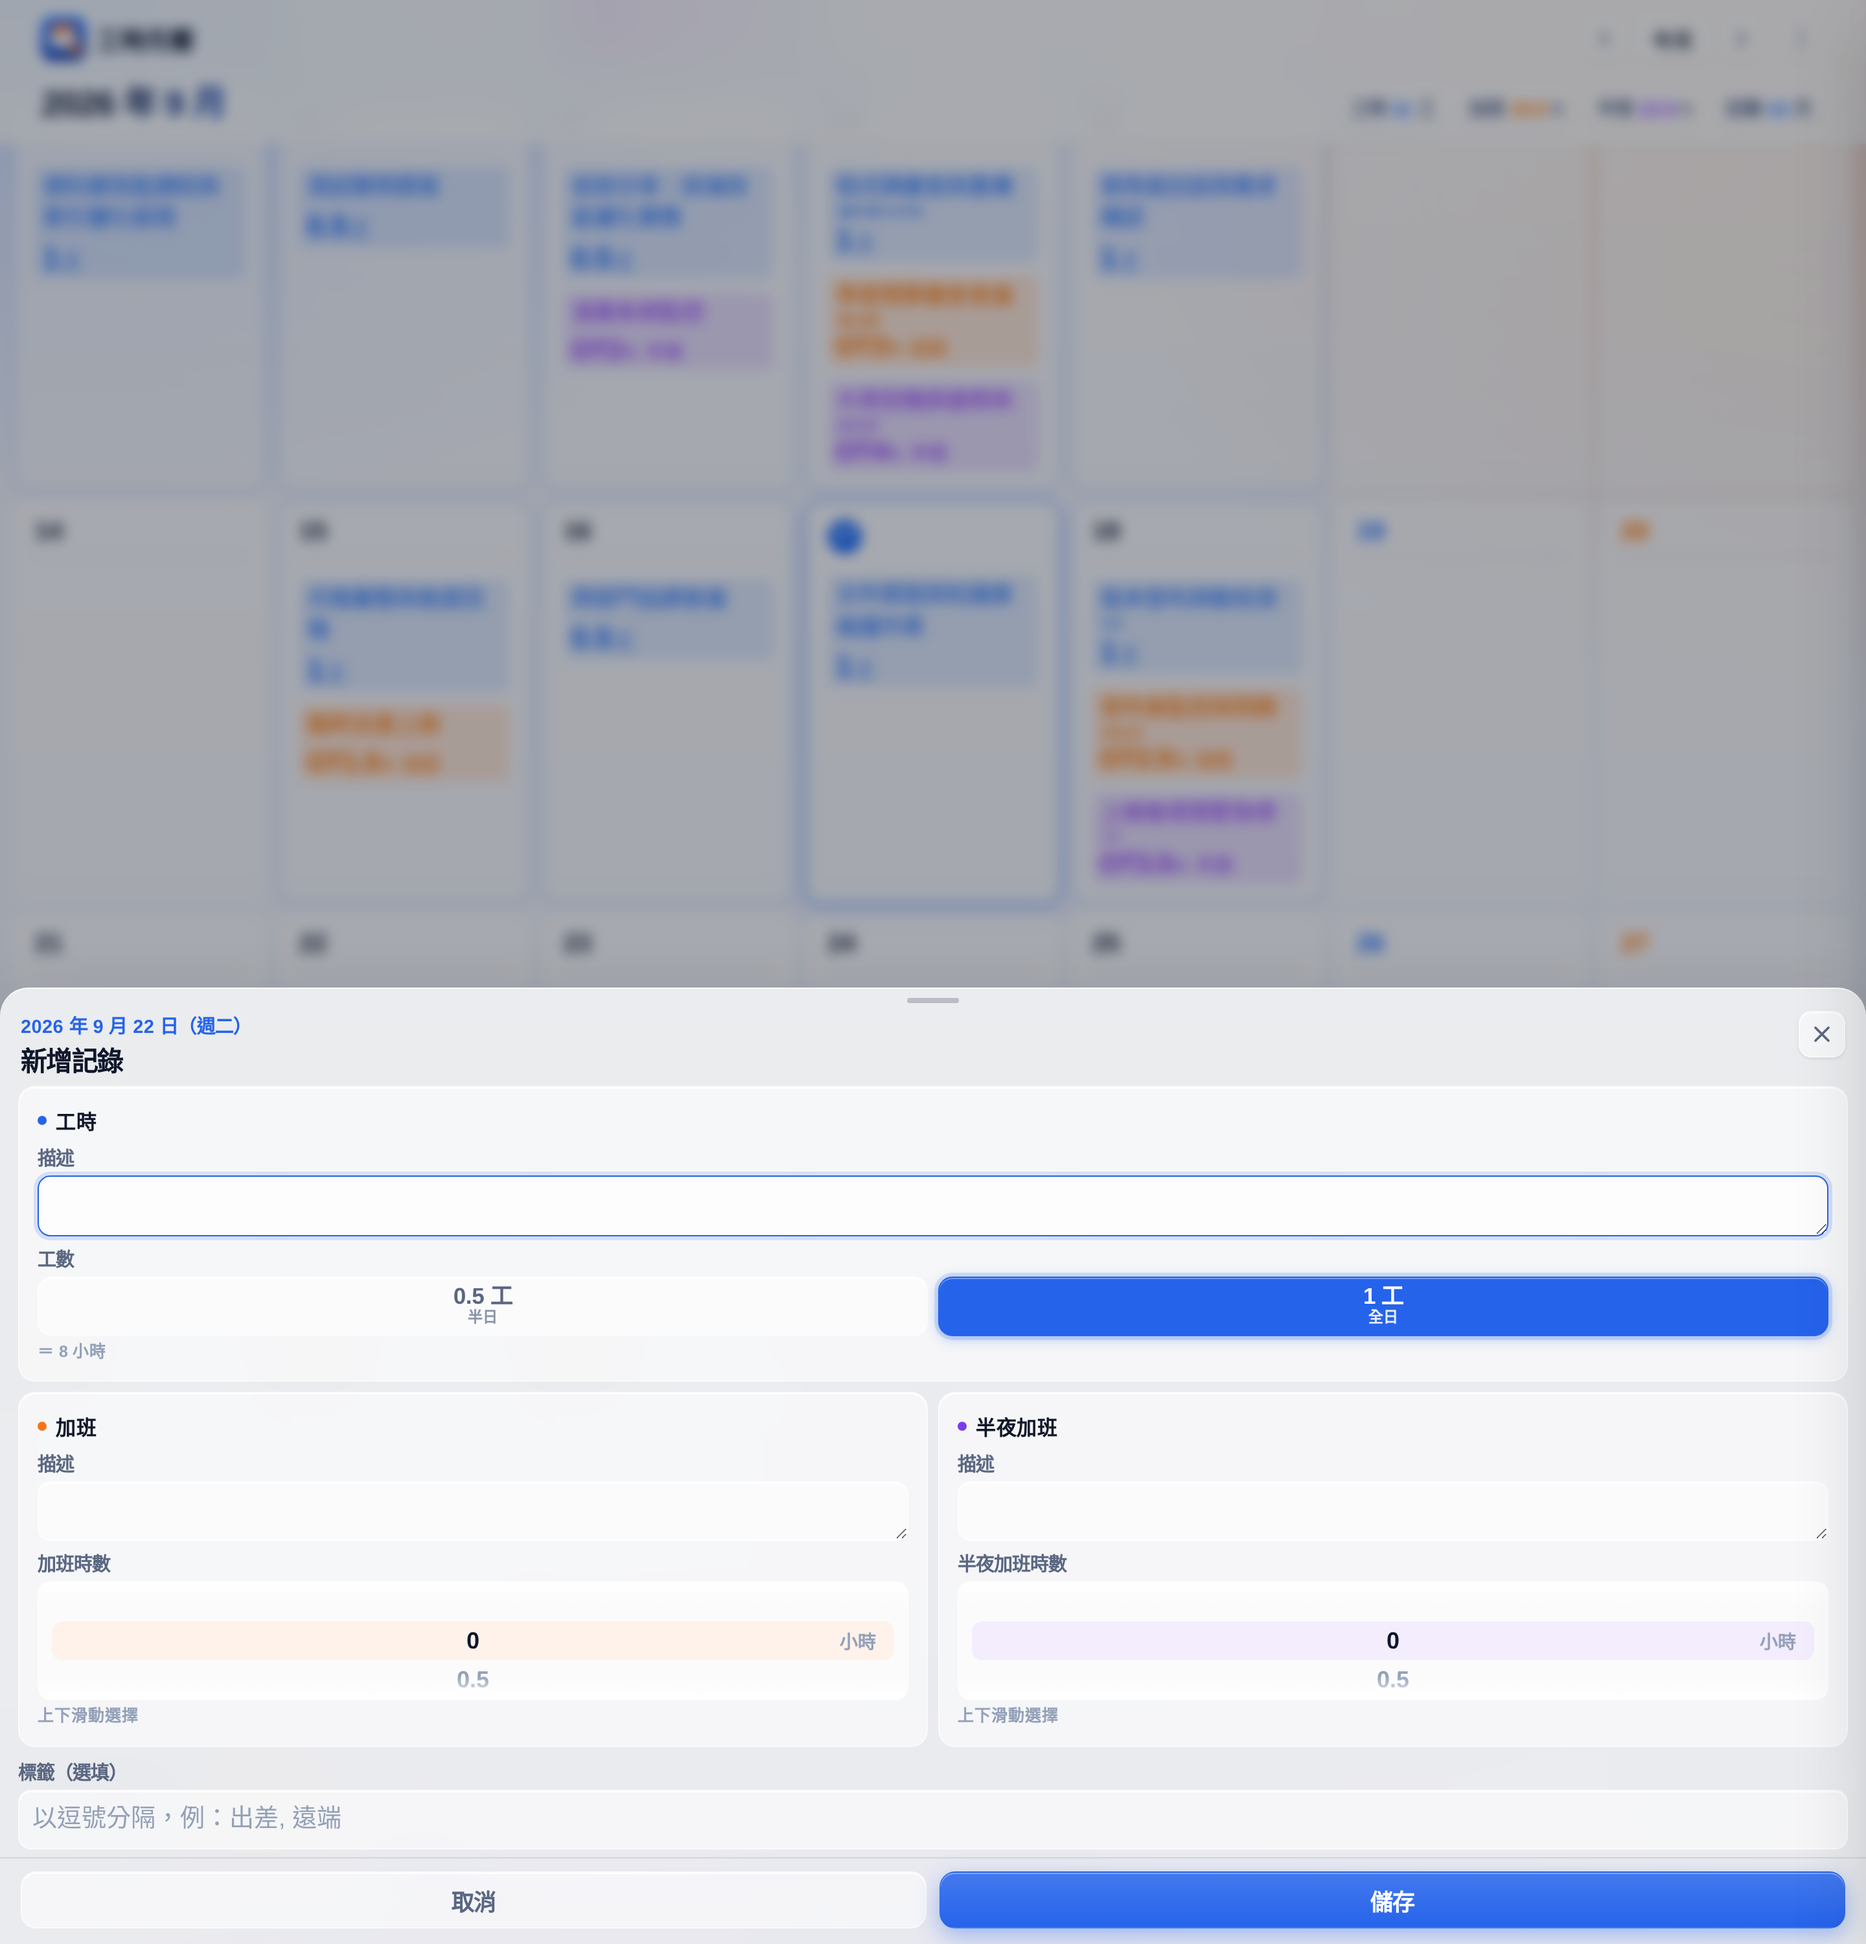
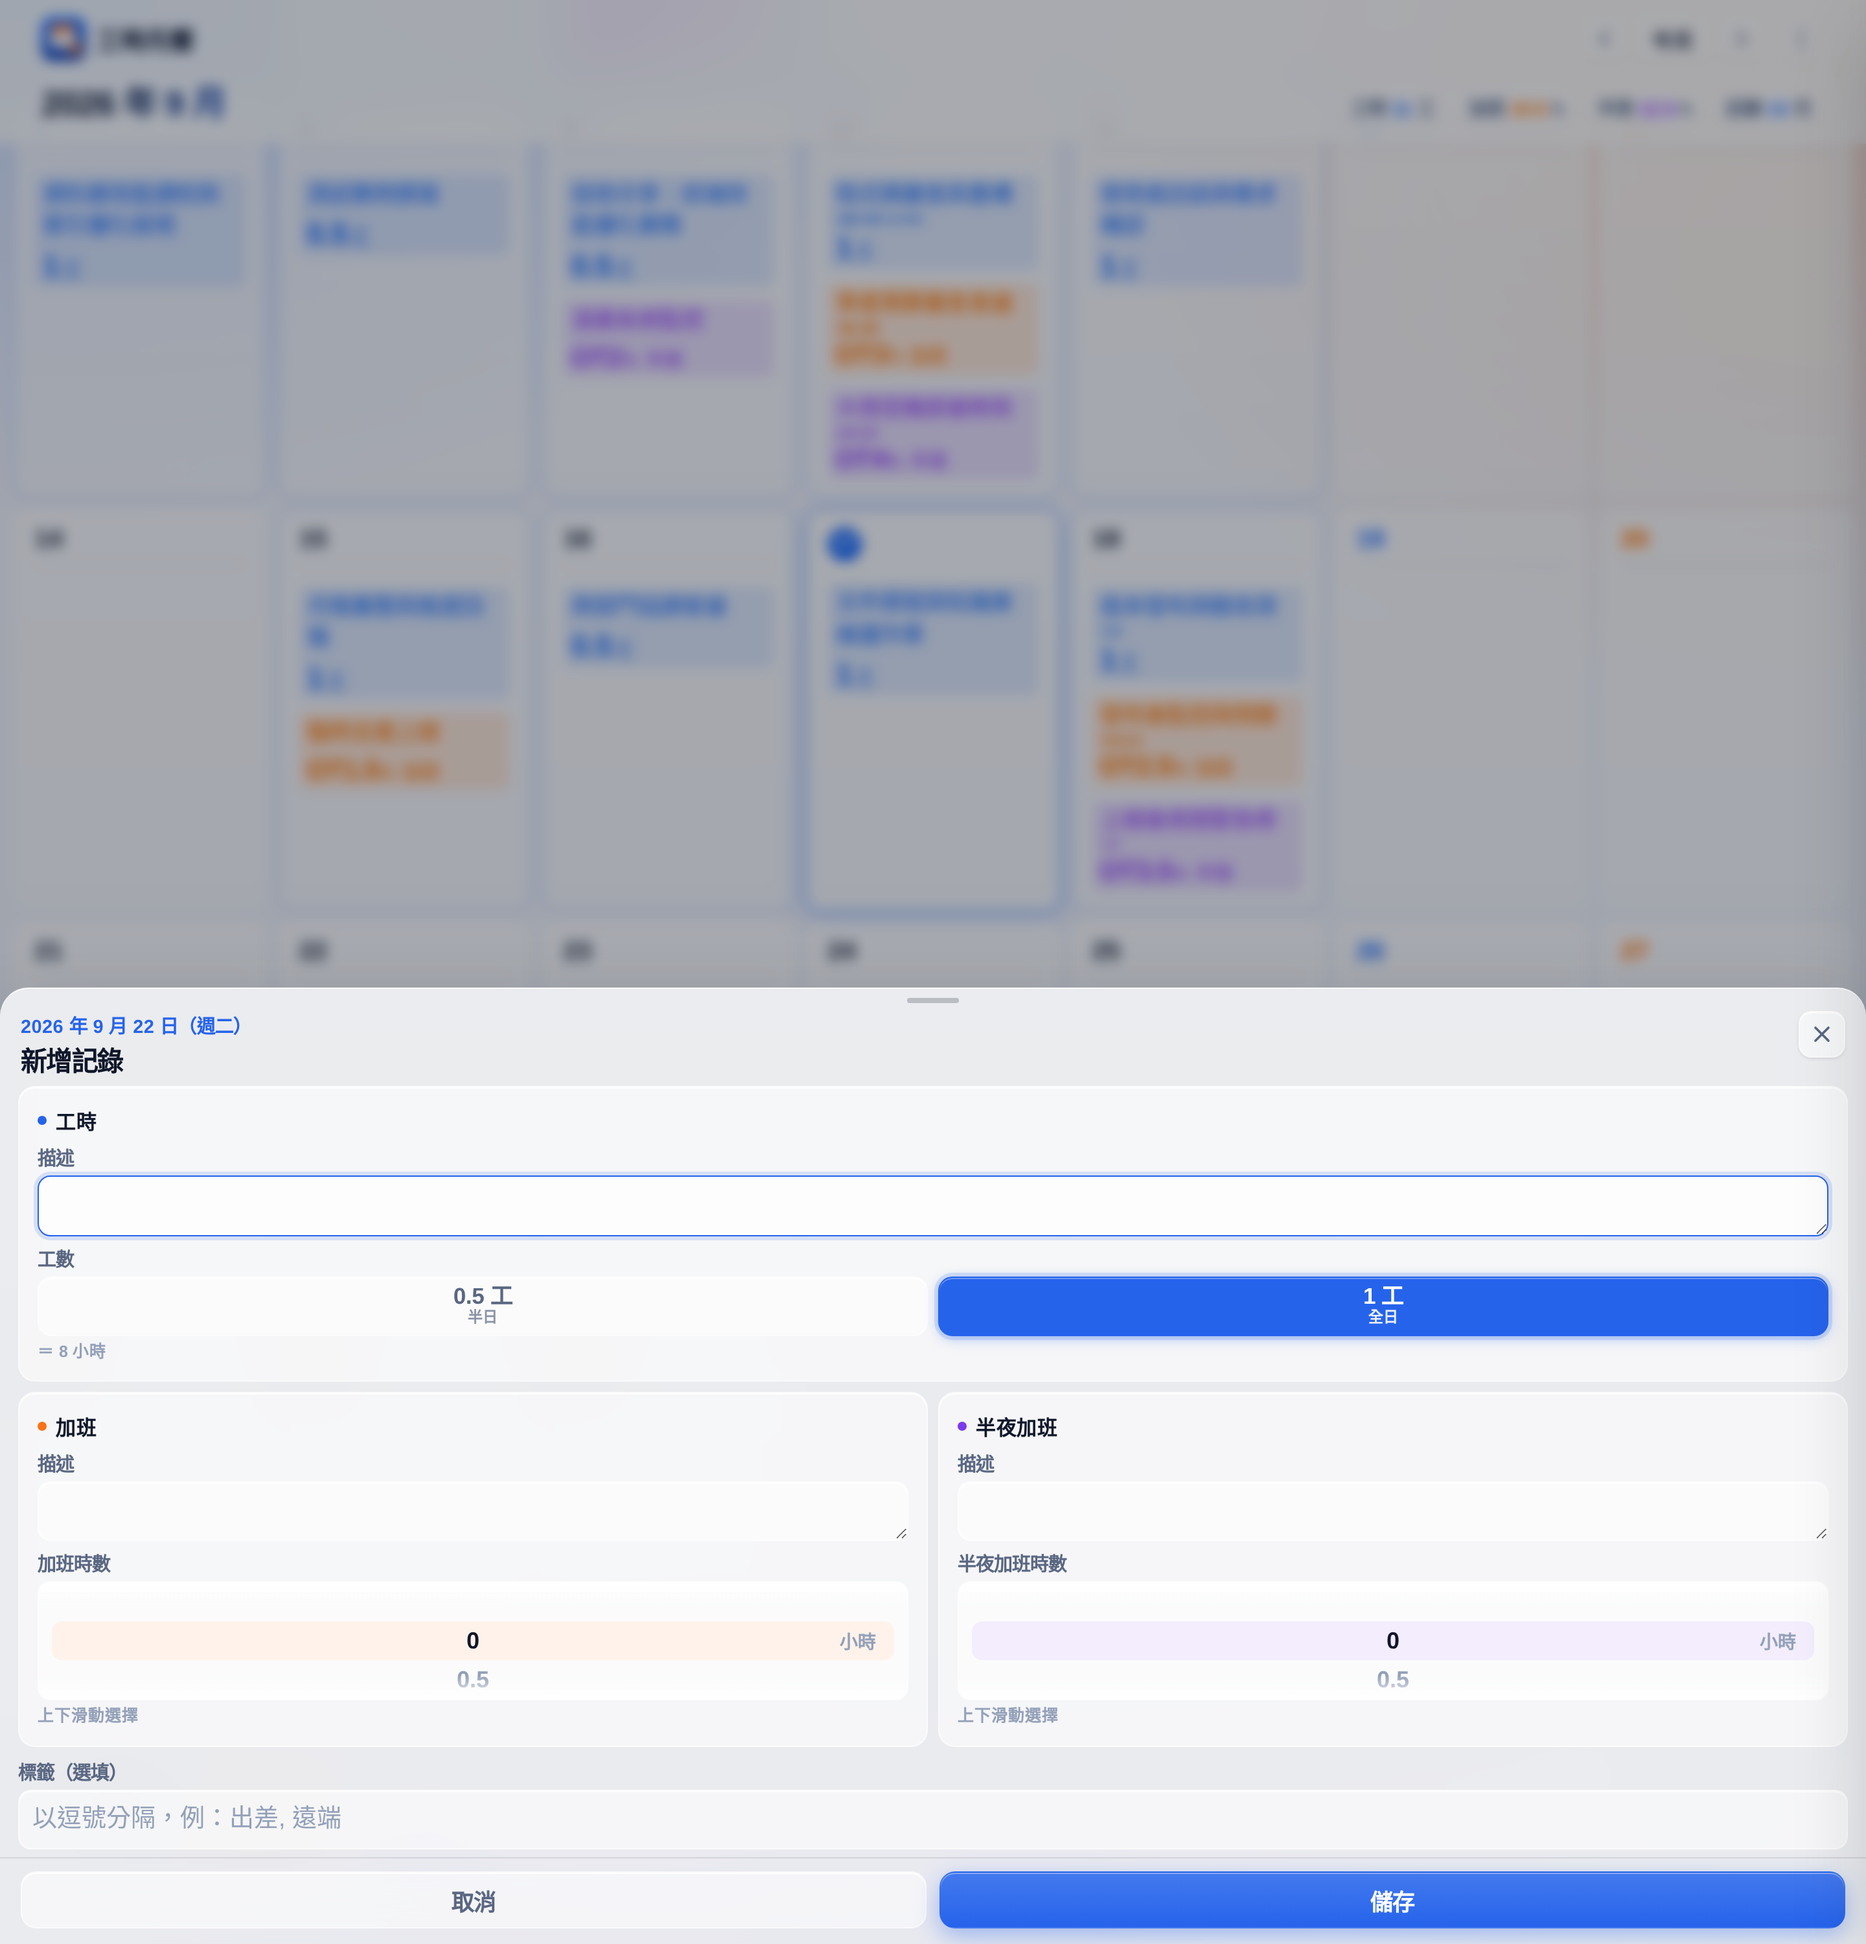
style: 收入框融入月曆網格 v1.19.3

diff --git a/worktime-calendar.standalone.html b/worktime-calendar.standalone.html
@@ -338,7 +338,7 @@ input, textarea { font-family: inherit; }
   gap: 12px;
   flex-wrap: wrap;
   flex: 0 0 auto;
-  margin-top: 6px;
+  margin-top: 4px;
   padding: 11px 14px;
   border-radius: var(--radius-sm);
   /* 與月曆格同一種玻璃：上亮下透漸層＋內高光＋極輕投影（材料一致），
@@ -1481,8 +1481,14 @@ textarea::placeholder, input::placeholder { color: var(--text-3); }
     flex-direction: column;
     align-items: stretch;
     gap: 6px;
-    margin-top: auto;
+    /* 融入網格線風格：與格子同款（無框無圓角、同漸層），間隔＝格線寬 1px。
+       grid 隱藏時收入列同時隱藏（兩者同進退），原 margin-top: auto 的
+       貼底保險不再需要。 */
+    margin-top: 1px;
     padding: 9px 11px;
+    border: none;
+    border-radius: 0;
+    box-shadow: inset 0 1px 0 var(--glass-highlight);
   }
   .income-label > span:first-child { font-size: 14px; }
   .income-formula { font-size: 12.5px; gap: 3px; }
@@ -1549,7 +1555,7 @@ textarea::placeholder, input::placeholder { color: var(--text-3); }
   .weekday-row { gap: 6px; }
   .day-groups { flex: 0 1 auto; }
   .day-group { flex: 0 1 auto; min-height: 0; }
-  .income-bar { margin-top: 12px; padding: 15px 21px; }
+  .income-bar { margin-top: 6px; padding: 15px 21px; border-radius: 12px; }
   .income-label > span:first-child { font-size: 16px; }
   .income-formula { font-size: 15px; }
   .income-total { font-size: 38.5px; }
@@ -1973,8 +1979,8 @@ textarea::placeholder, input::placeholder { color: var(--text-3); }
   'use strict';
 
   // 由 bump-version.sh 自動維護
-  const APP_VERSION = '1.19.2';
-  const APP_BUILD = '20260917-1929';
+  const APP_VERSION = '1.19.3';
+  const APP_BUILD = '20260917-1942';
 
   const STORE_KEY = 'worktime-calendar:v1';
   const SETTINGS_KEY = 'worktime-calendar:settings:v1';

diff --git a/styles.css b/styles.css
@@ -324,7 +324,7 @@ input, textarea { font-family: inherit; }
   gap: 12px;
   flex-wrap: wrap;
   flex: 0 0 auto;
-  margin-top: 6px;
+  margin-top: 4px;
   padding: 11px 14px;
   border-radius: var(--radius-sm);
   /* 與月曆格同一種玻璃：上亮下透漸層＋內高光＋極輕投影（材料一致），
@@ -1467,8 +1467,14 @@ textarea::placeholder, input::placeholder { color: var(--text-3); }
     flex-direction: column;
     align-items: stretch;
     gap: 6px;
-    margin-top: auto;
+    /* 融入網格線風格：與格子同款（無框無圓角、同漸層），間隔＝格線寬 1px。
+       grid 隱藏時收入列同時隱藏（兩者同進退），原 margin-top: auto 的
+       貼底保險不再需要。 */
+    margin-top: 1px;
     padding: 9px 11px;
+    border: none;
+    border-radius: 0;
+    box-shadow: inset 0 1px 0 var(--glass-highlight);
   }
   .income-label > span:first-child { font-size: 14px; }
   .income-formula { font-size: 12.5px; gap: 3px; }
@@ -1535,7 +1541,7 @@ textarea::placeholder, input::placeholder { color: var(--text-3); }
   .weekday-row { gap: 6px; }
   .day-groups { flex: 0 1 auto; }
   .day-group { flex: 0 1 auto; min-height: 0; }
-  .income-bar { margin-top: 12px; padding: 15px 21px; }
+  .income-bar { margin-top: 6px; padding: 15px 21px; border-radius: 12px; }
   .income-label > span:first-child { font-size: 16px; }
   .income-formula { font-size: 15px; }
   .income-total { font-size: 38.5px; }

diff --git a/app.js b/app.js
@@ -7,8 +7,8 @@
   'use strict';
 
   // 由 bump-version.sh 自動維護
-  const APP_VERSION = '1.19.2';
-  const APP_BUILD = '20260917-1929';
+  const APP_VERSION = '1.19.3';
+  const APP_BUILD = '20260917-1942';
 
   const STORE_KEY = 'worktime-calendar:v1';
   const SETTINGS_KEY = 'worktime-calendar:settings:v1';

diff --git a/sw.js b/sw.js
@@ -8,7 +8,7 @@
  *   4. controllerchange 觸發，頁面重新載入即為新版
  * ========================================================= */
 
-const CACHE = 'worktime-calendar-v1.19.2';
+const CACHE = 'worktime-calendar-v1.19.3';
 const PRECACHE = [
   './',
   './index.html',
